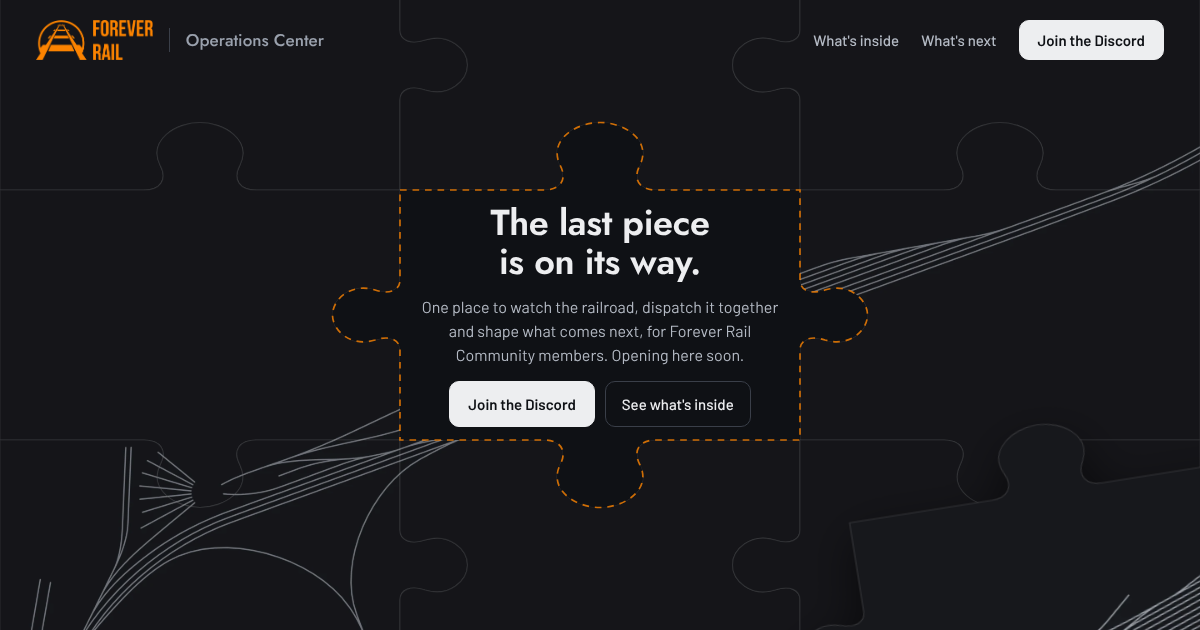
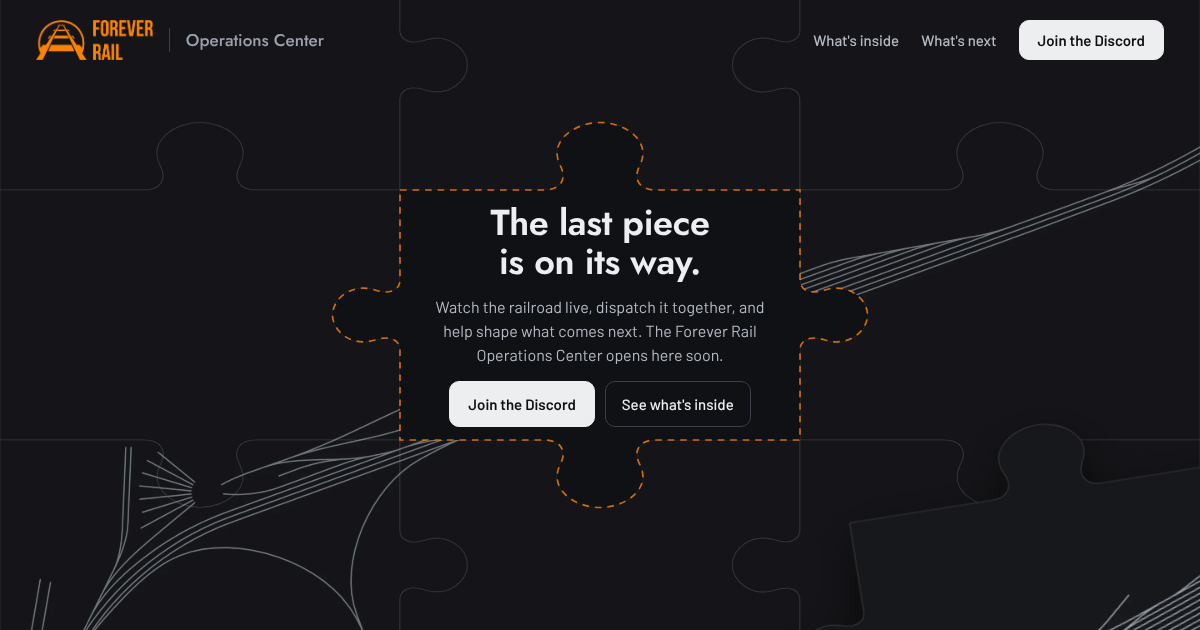
docs: Marketing copy for the landing page, in US English
Punchier wording throughout (the opening, What's inside, the arrivals board
and the closing call), the same in the page description. og.png is retaken
with the new opening line.

Changed region(s): [[0.3392, 0.4825, 0.6475, 0.573]]

diff --git a/src/data/arrivals.ts b/src/data/arrivals.ts
@@ -15,11 +15,11 @@ export interface Arrival {
 }
 
 export const ARRIVALS: Arrival[] = [
-  { name: 'Live map', does: 'The whole railroad, every train where it is right now.', due: 'opening' },
-  { name: 'Server status', does: "Which servers are up, before you join.", due: 'opening' },
-  { name: 'CTC board', does: 'Clear signals and line switches from your browser.', due: 'opening' },
-  { name: 'Dispatch desks', does: 'Split the line so several dispatchers can work it.', due: 'opening' },
-  { name: 'Roadmap and requests', does: "Ask for what you'd like, and follow it as it's built.", due: 'opening' },
+  { name: 'Live map', does: 'The whole railroad, with every train where it is right now.', due: 'opening' },
+  { name: 'Server status', does: 'Know which servers are up before you join.', due: 'opening' },
+  { name: 'CTC board', does: 'Clear signals and line switches, right from your browser.', due: 'opening' },
+  { name: 'Dispatch desks', does: 'Split the line so a whole crew can dispatch it together.', due: 'opening' },
+  { name: 'Roadmap and requests', does: "Ask for what you want, then watch it get built.", due: 'opening' },
   { name: 'Shift changes', does: "Ask for a desk, or cover a neighbor's.", due: 'soon' },
   { name: 'More on the board', does: 'More of the railroad, right where the dispatcher needs it.', due: 'later' },
   { name: 'Something on the radio', does: "That's all we're saying.", due: 'later' }

diff --git a/src/data/site.ts b/src/data/site.ts
@@ -3,4 +3,4 @@ export const DISCORD_URL = 'https://discord.gg/jFVVCJVbuh'
 export const STATUS_URL = 'https://status.foreverrail.com'
 export const TITLE = 'Forever Rail Operations Center'
 export const DESCRIPTION =
-  'A live map, server status and a CTC board you dispatch from together, for Forever Rail Community members. Opening here soon.'
+  'Watch the railroad live, dispatch it together, and help shape what comes next. The Forever Rail Operations Center opens here soon.'
